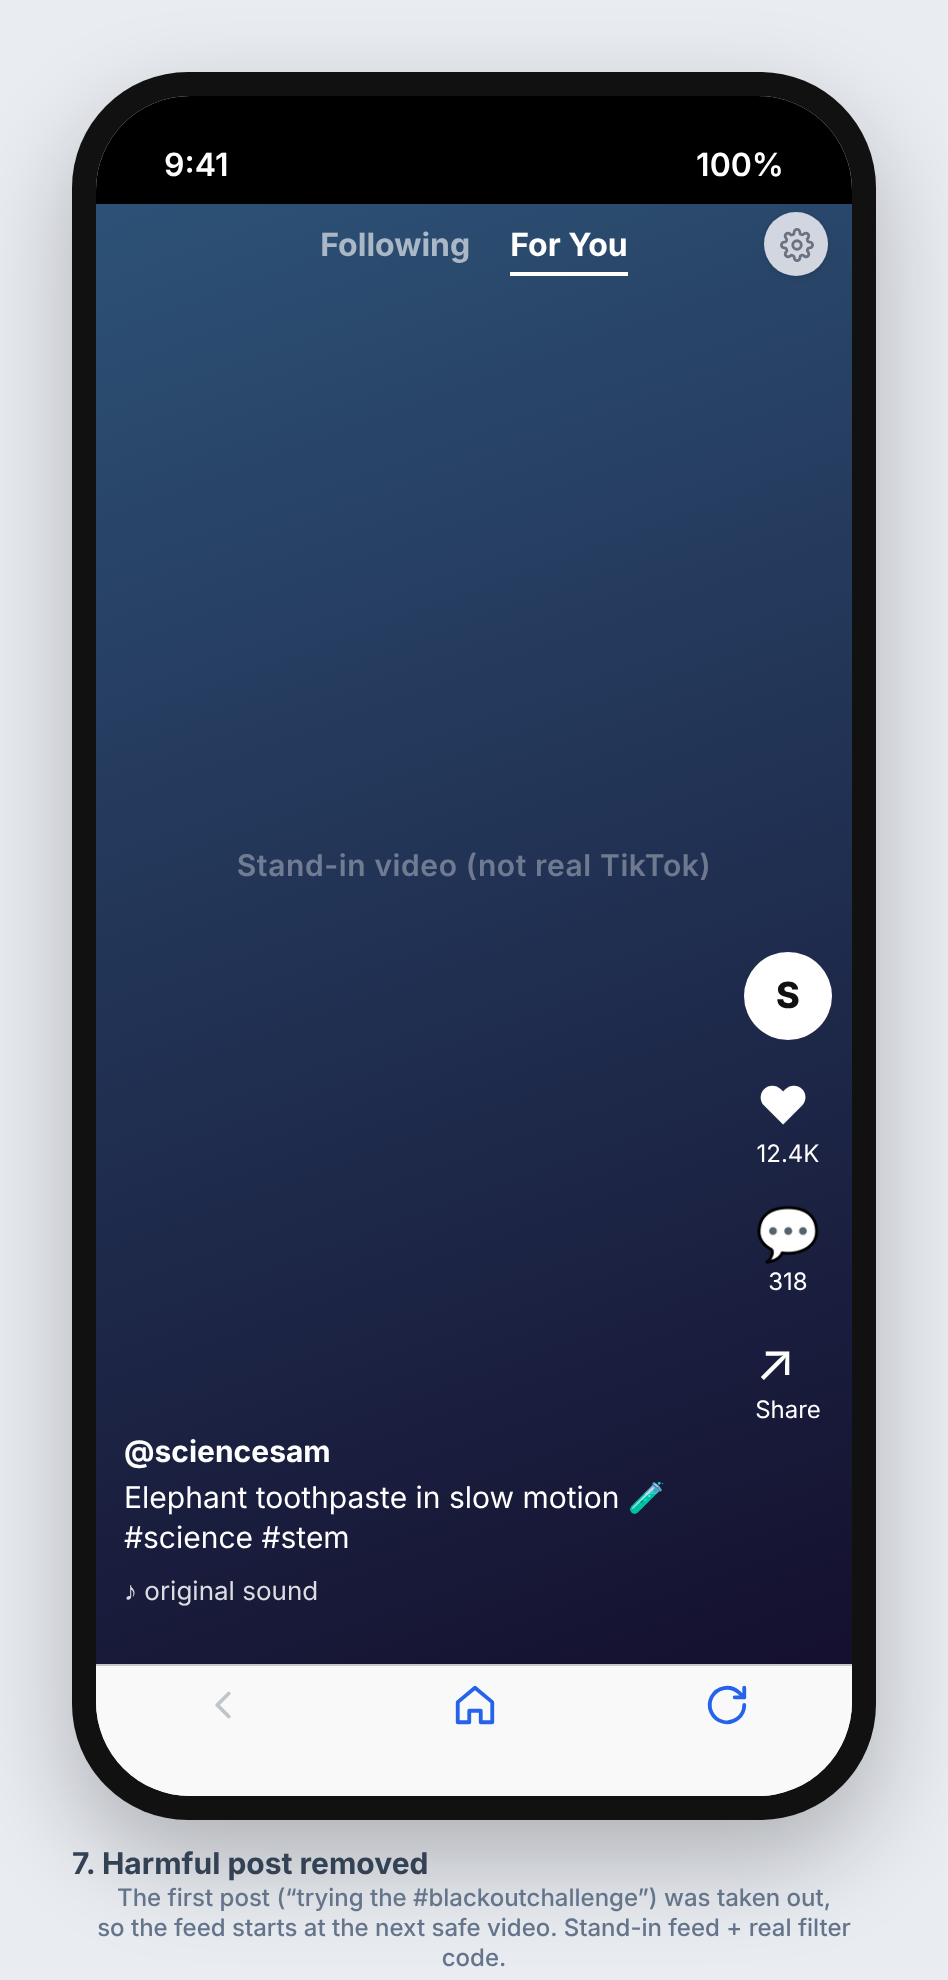
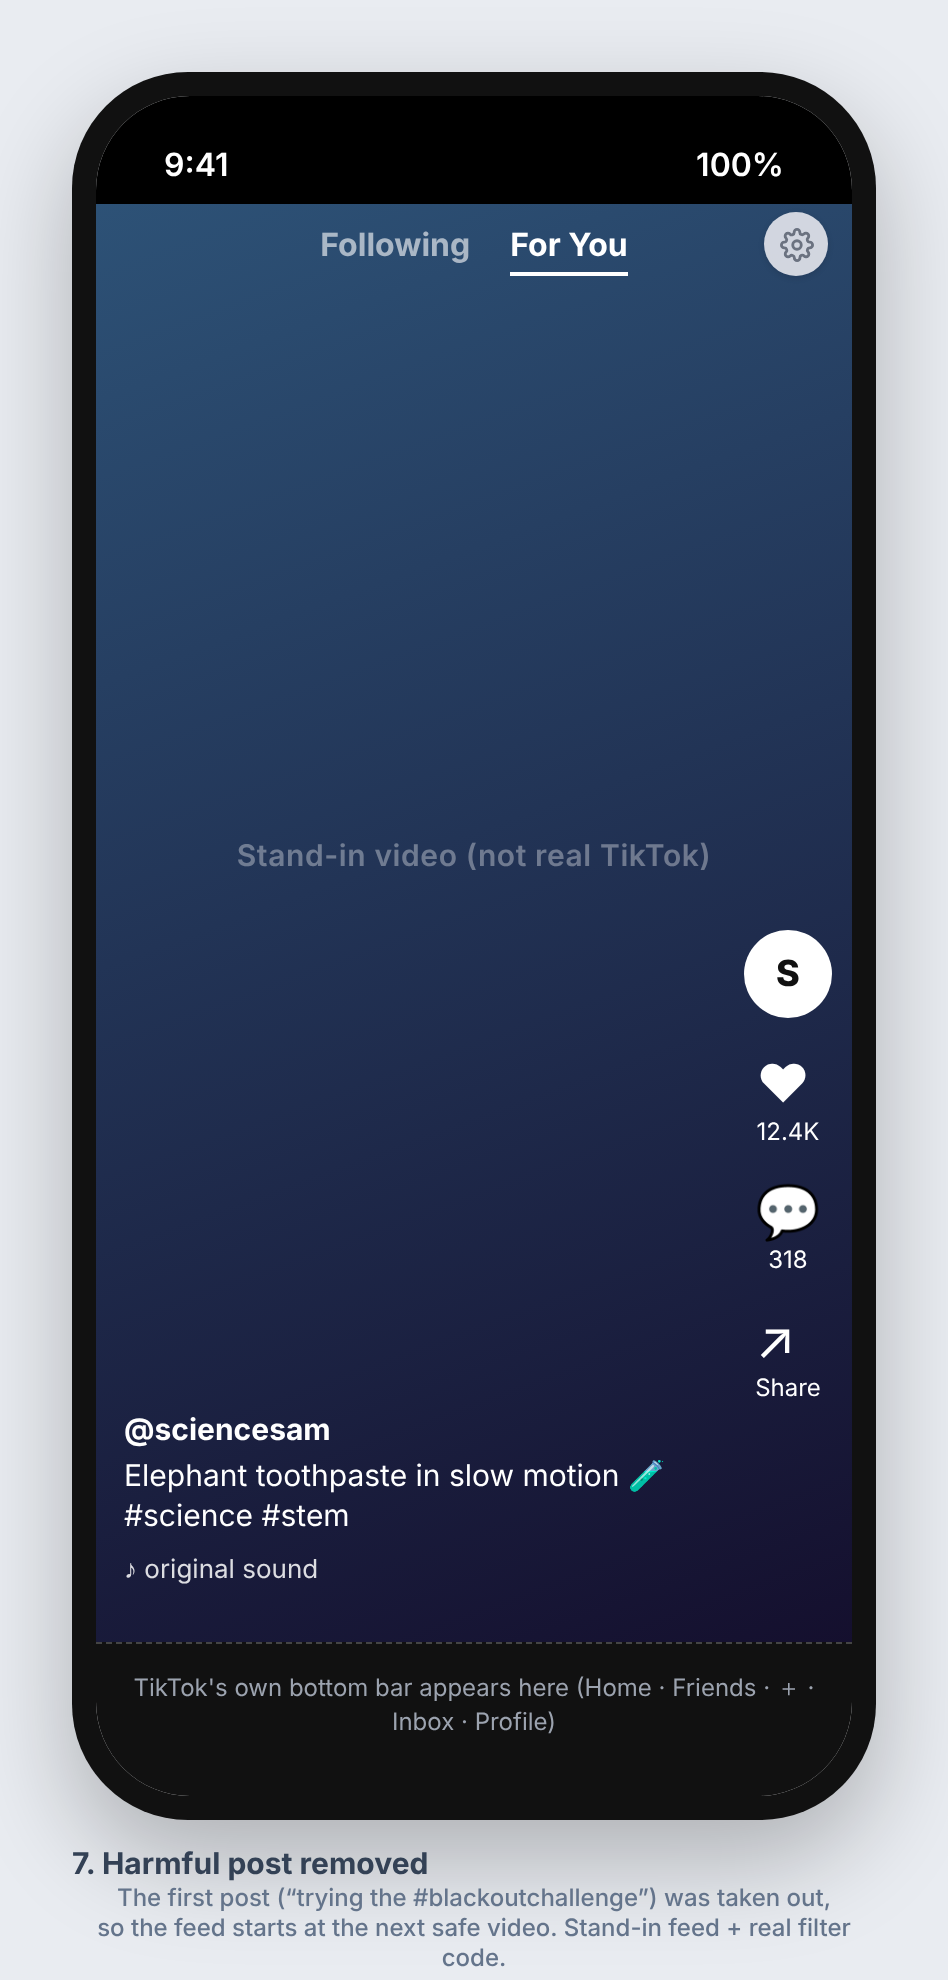
Show TikTok's site full-screen with its own bottom bar; open straight into For You or Following
Removes SafeScroll's bottom bar. Back/home/reload move to the settings sheet menu; swipe back works.

Claude-Session: https://claude.ai/code/session_01WQztDGCAWhknUg1g7U3Ees

diff --git a/ios/SafeScrollTok/App.swift b/ios/SafeScrollTok/App.swift
@@ -21,6 +21,14 @@ final class AppModel: ObservableObject {
     lazy var browser = Browser()
 
     var accountsAllowed: Bool { config["accountsAllowed"] as? Bool ?? false }
+    /// Where the app opens: TikTok's For You if it's on, otherwise Following. SafeScroll's own
+    /// home page (approved creators) only when there's no account and For You is off.
+    var startURL: URL {
+        let forYou = config["forYou"] as? [String: Any]
+        if forYou?["enabled"] as? Bool == true { return URL(string: "https://www.tiktok.com/foryou")! }
+        if accountsAllowed { return URL(string: "https://www.tiktok.com/following")! }
+        return Browser.homeURL
+    }
     var minAccountAge: Int { (config["minAccountAge"] as? NSNumber)?.intValue ?? 13 }
 
     private init() {
@@ -101,7 +109,7 @@ struct WelcomeView: View {
     }
 
     private func start(_ link: String?) {
-        model.browser.load(link.flatMap(URL.init(string:)) ?? Browser.homeURL)
+        model.browser.load(link.flatMap(URL.init(string:)) ?? model.startURL)
         model.welcomeDone = true
     }
 }
@@ -111,16 +119,10 @@ struct MainView: View {
     @ObservedObject var browser: Browser
 
     var body: some View {
-        VStack(spacing: 0) {
-            WebViewHost(webView: browser.webView)
-            HStack {
-                bar("chevron.left", "Back") { browser.webView.goBack() }.disabled(!browser.canGoBack)
-                bar("house", "Home") { browser.goHome() }
-                bar("arrow.clockwise", "Reload") { browser.webView.reload() }
-            }
-            .padding(.vertical, 6)
-            .background(.bar)
-        }
+        // Just TikTok's own mobile site, with its own bottom bar (Home, Friends, +, Inbox, Profile).
+        // Swipe from the left edge to go back.
+        WebViewHost(webView: browser.webView)
+            .background(Color.black.ignoresSafeArea())
         // Small cog for parent settings, top-right on every screen.
         .overlay(alignment: .topTrailing) {
             Button { model.showSettings = true } label: {
@@ -157,14 +159,7 @@ struct MainView: View {
                     }
             }
         }
-        .onAppear { if !browser.hasLoaded { browser.goHome() } }
-    }
-
-    private func bar(_ icon: String, _ label: String, action: @escaping () -> Void) -> some View {
-        Button(action: action) {
-            Image(systemName: icon).font(.system(size: 19, weight: .medium)).frame(maxWidth: .infinity, minHeight: 36)
-        }
-        .accessibilityLabel(label)
+        .onAppear { if !browser.hasLoaded { browser.load(model.startURL) } }
     }
 }
 
@@ -182,6 +177,9 @@ struct SettingsSheet: View {
                 .toolbar {
                     ToolbarItem(placement: .navigationBarLeading) {
                         Menu {
+                            Button { browser.load(AppModel.shared.startURL); dismiss() } label: { Label("Back to TikTok", systemImage: "play.rectangle") }
+                            Button { browser.goHome(); dismiss() } label: { Label("Approved creators", systemImage: "person.2") }
+                            Button { browser.webView.reload(); dismiss() } label: { Label("Reload page", systemImage: "arrow.clockwise") }
                             Button("Sign out of TikTok", role: .destructive) { confirmSignOut = true }
                         } label: { Image(systemName: "ellipsis.circle") }
                     }

diff --git a/ios/SafeScrollTok/Browser.swift b/ios/SafeScrollTok/Browser.swift
@@ -132,7 +132,7 @@ final class Browser: WebUIDelegate, ObservableObject, WKNavigationDelegate {
         let store = WKWebsiteDataStore.default()
         store.removeData(ofTypes: WKWebsiteDataStore.allWebsiteDataTypes(), modifiedSince: .distantPast) {
             DispatchQueue.main.async {
-                self.goHome()
+                self.load(AppModel.shared.startURL)
                 done?()
             }
         }

diff --git a/ios/README.md b/ios/README.md
@@ -13,9 +13,9 @@ A personal iPhone app that opens TikTok's mobile website inside the app with the
 2. **Welcome screen** (native):
    - If accounts are allowed for that age and country: **Sign in**, **Create an account** or **Watch without an account**. Log in and sign up are TikTok's own pages, opened inside the app. The app never sees your password.
    - If they're not allowed (for example under 16 in Australia): **Start watching**, logged out.
-3. **Every launch after that:** the app opens straight into TikTok with your saved settings, sign-in and limits. Setup and the welcome screen never show again. TikTok's mobile site fills the screen, with a bottom bar (**Back**, **Home**, **Reload**) and a small **⚙ cog** in the top-right corner for settings.
-   - **Home** shows For You (with today's time left), Following (when logged in) and the approved creators from Settings.
-   - **⚙ Settings** is the same parent dashboard as the extension, behind the PIN. Its **⋯** menu has **Sign out of TikTok**.
+3. **Every launch after that:** the app opens straight into TikTok with your saved settings, sign-in and limits. Setup and the welcome screen never show again. It opens on For You (if switched on) or Following. TikTok's mobile site fills the whole screen with its own bottom bar, exactly as on tiktok.com in Safari. The only addition is a small **⚙ cog** in the top-right corner for settings. Swipe from the left edge to go back.
+   - The approved-creators page opens on its own when there's no account and For You is off. It's also in the settings sheet's **⋯** menu.
+   - **⚙ Settings** is the same parent dashboard as the extension, behind the PIN. Its **⋯** menu has **Back to TikTok**, **Approved creators**, **Reload page** and **Sign out of TikTok**.
 
 ## What it does automatically
 - **Filters run on every TikTok page:** content filters, For You limits and breaks, the approved-friends list, hidden suggestions, screen time and bedtime. These are the extension's scripts, injected into an isolated script world that TikTok's own code can't see.
